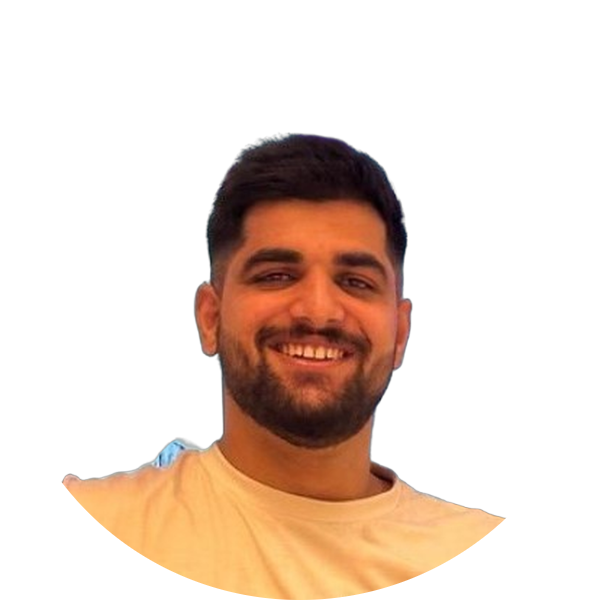
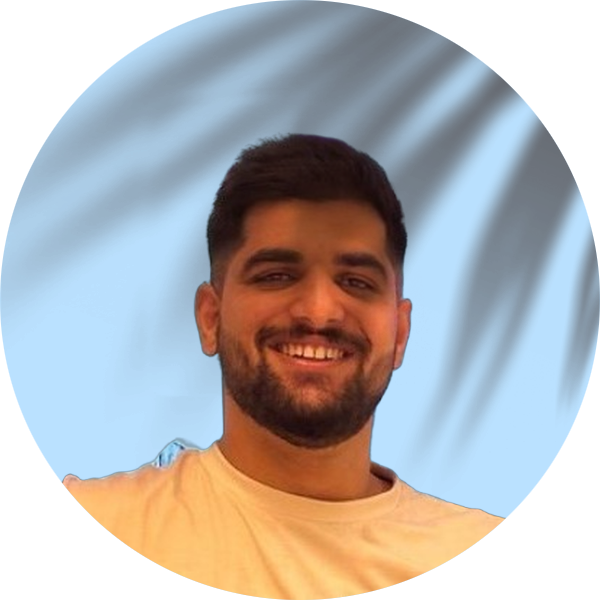
photo change and nav hide

diff --git a/public/index.html b/public/index.html
@@ -23,43 +23,43 @@
     />
   </head>
   <body class="bg-gray-100 relative z-0">
-    <nav class="absolute z-10 right-0 top-20 w-1/10 h-2/3">
+  <!--  <nav class="absolute z-10 right-0 top-20 w-1/10 h-2/3">
       <ul class="h-full flex flex-col justify-around my-10">
         <li class="rounded-full bg-green-500">
           <a class="inline m-4" href="#">
-            <!-- <span>Home</span> -->
+            <span>Home</span>
             <i class="fa fa-home"></i>
           </a>
         </li>
         <li>
           <a class="inline m-4" href="#">
             <i class="fa fa-user"></i>
-            <!-- Experience -->
+            Experience
           </a>
         </li>
         <li>
           <a class="inline m-4" href="#">
             <i class="fa fa-briefcase"></i>
-            <!-- Projects -->
+            Projects
           </a>
         </li>
         <li>
           <a class="inline m-4" href="#">
             <i class="fa fa-code"></i>
-            <!-- Skills -->
+            Skills
           </a>
         </li>
         <li>
           <a class="inline m-4" href="#">
             <i class="fa fa-envelope"></i>
-            <!-- Contact me -->
+            Contact me
           </a>
         </li>
       </ul>
-    </nav>
+    </nav> -->
 
     <div class="flex my-4">
-      <div class="w-1/3 p-5 h-screen pt-1 bg-gray-200 rounded-lg fixed left-0">
+      <div class="w-1/3 p- h-screen pt-1 bg-gray-200 rounded-lg fixed left-0">
         <img src="./photo.png" alt="" class="w-full h-4/5 rounded-lg" />
         <div class="m-2 w-full flex justify-center font-bold">Manoj Kumar</div>
         <div class="m-2 w-full flex justify-center">Programmer</div>
